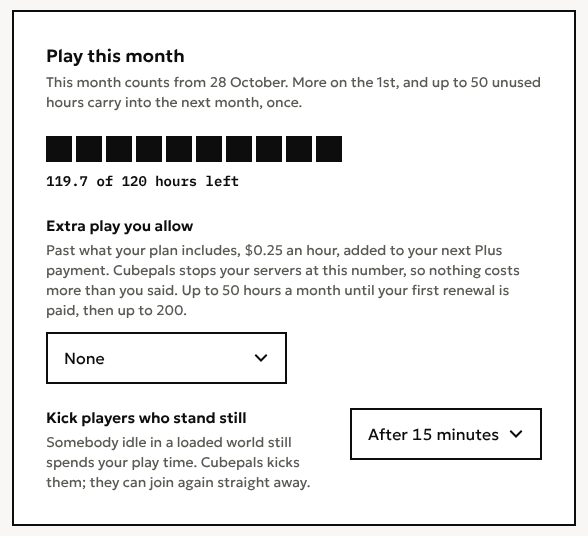
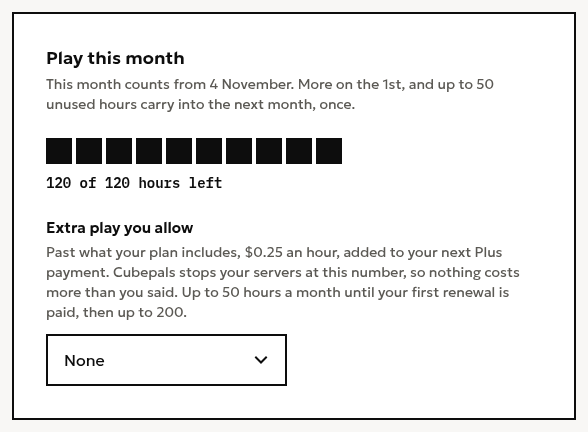
Refresh the guide for server idle-kick settings

diff --git a/apps/control/src/app/servers/afk-kick.test.ts b/apps/control/src/app/servers/afk-kick.test.ts
@@ -30,7 +30,7 @@ describe.skipIf(!hasDatabase)('server idle-kick choices', () => {
     const runtime = async (id: string) => h.app.specs.desired(h.db, await h.server(id))
     const before = await runtime(first.id)
     const version = (await h.server(first.id)).version
-    await h.app.afkKick.set(owner, first.id, 0)
+    await h.app.servers.afkKick.set(owner, first.id, 0)
     expect((await h.app.queries.get(owner, first.id)).afkKickMinutes).toBe(0)
     expect((await h.app.queries.get(owner, second.id)).afkKickMinutes).toBeNull()
     expect(h.runtime.machine(first.id)?.spec.env.PLAYER_IDLE_TIMEOUT).toBe('15')
@@ -40,19 +40,17 @@ describe.skipIf(!hasDatabase)('server idle-kick choices', () => {
     expect((await runtime(first.id)).driftDigest).toBe(before.driftDigest)
     expect((await runtime(first.id)).digest).not.toBe(before.digest)
     expect((await h.server(first.id)).version).toBe(version + 1)
-    await h.app.afkKick.set(owner, first.id, 0)
+    await h.app.servers.afkKick.set(owner, first.id, 0)
     expect((await h.server(first.id)).version).toBe(version + 1)
     const audit = await h.db
       .select()
       .from(schema.auditLog)
-      .where(
-        and(eq(schema.auditLog.subjectId, first.id), eq(schema.auditLog.action, 'server.afk_kick_set')),
-      )
+      .where(and(eq(schema.auditLog.subjectId, first.id), eq(schema.auditLog.action, 'server.afk_kick_set')))
     expect(audit).toHaveLength(1)
     expect(audit[0]).toMatchObject({ subjectType: 'server', data: { minutes: 0 } })
-    await h.app.afkKick.set(owner, first.id, 45)
+    await h.app.servers.afkKick.set(owner, first.id, 45)
     expect((await runtime(first.id)).spec.env.PLAYER_IDLE_TIMEOUT).toBe('45')
-    await h.app.afkKick.set(owner, first.id, null)
+    await h.app.servers.afkKick.set(owner, first.id, null)
     expect((await h.server(first.id)).afkKickMinutes).toBeNull()
     expect((await runtime(first.id)).spec.env.PLAYER_IDLE_TIMEOUT).toBe('15')
   }, 40_000)
@@ -61,34 +59,40 @@ describe.skipIf(!hasDatabase)('server idle-kick choices', () => {
     const owner = await h.user('Private idle', 'plus')
     const stranger = await h.user('Stranger idle', 'plus')
     const server = await h.create(owner, { name: 'Private idle' })
-    await expect(h.app.afkKick.set(stranger, server.id, 0)).rejects.toMatchObject({ name: 'NotFound' })
+    await expect(h.app.servers.afkKick.set(stranger, server.id, 0)).rejects.toMatchObject({
+      name: 'NotFound',
+    })
     await expect(
-      h.app.afkKick.set({ kind: 'system', reason: 'reconcile' }, server.id, 0),
+      h.app.servers.afkKick.set({ kind: 'system', reason: 'reconcile' }, server.id, 0),
     ).rejects.toMatchObject({ name: 'NotFound' })
     for (const minutes of [-1, 3, 121, 5.5, Number.NaN])
-      await expect(h.app.afkKick.set(owner, server.id, minutes)).rejects.toMatchObject({
+      await expect(h.app.servers.afkKick.set(owner, server.id, minutes)).rejects.toMatchObject({
         code: 'invalid_choice',
       })
     expect((await h.server(server.id)).afkKickMinutes).toBeNull()
     const free = await h.user('Free idle')
     const trial = await h.create(free, { name: 'Free idle' })
-    await expect(h.app.afkKick.set(free, trial.id, 0)).rejects.toMatchObject({ code: 'not_entitled' })
+    await expect(h.app.servers.afkKick.set(free, trial.id, 0)).rejects.toMatchObject({ code: 'not_entitled' })
     expect((await h.server(trial.id)).afkKickMinutes).toBeNull()
   }, 30_000)
 
   test('after a downgrade the owner can reset an earlier choice without choosing a new override', async () => {
     const owner = await h.user('Downgraded idle', 'plus')
     const server = await h.create(owner, { name: 'Downgraded idle' })
-    await h.app.afkKick.set(owner, server.id, 0)
+    await h.app.servers.afkKick.set(owner, server.id, 0)
     await h.db
       .update(schema.accountStanding)
       .set({ plan: 'free' })
       .where(eq(schema.accountStanding.userId, owner.userId))
-    await expect(h.app.afkKick.set(owner, server.id, 30)).rejects.toMatchObject({ code: 'not_entitled' })
+    await expect(h.app.servers.afkKick.set(owner, server.id, 30)).rejects.toMatchObject({
+      code: 'not_entitled',
+    })
     expect((await h.server(server.id)).afkKickMinutes).toBe(0)
-    await h.app.afkKick.set(owner, server.id, null)
+    await h.app.servers.afkKick.set(owner, server.id, null)
     expect((await h.server(server.id)).afkKickMinutes).toBeNull()
-    expect((await h.app.specs.desired(h.db, await h.server(server.id))).spec.env.PLAYER_IDLE_TIMEOUT).toBe('15')
+    expect((await h.app.specs.desired(h.db, await h.server(server.id))).spec.env.PLAYER_IDLE_TIMEOUT).toBe(
+      '15',
+    )
   }, 30_000)
 
   test('a paid subscription allows the choice even when the stored account plan is free', async () => {
@@ -102,7 +106,7 @@ describe.skipIf(!hasDatabase)('server idle-kick choices', () => {
       status: PAYING[0] ?? '',
     })
     const server = await h.create(owner, { name: 'Paid idle' })
-    await h.app.afkKick.set(owner, server.id, 30)
+    await h.app.servers.afkKick.set(owner, server.id, 30)
     expect((await h.server(server.id)).afkKickMinutes).toBe(30)
   }, 30_000)
 

diff --git a/apps/control/src/app/servers/queries.ts b/apps/control/src/app/servers/queries.ts
@@ -83,6 +83,7 @@ import {
 import { partySizesFor, planFit, usableFirst } from './plan-fit.ts'
 import { loadChangeFacts, loadRevisionCard, loadRevisionFields, revisionHistory } from './revision-reads.ts'
 import type { MinecraftServerService } from './service.ts'
+import { serverSettingsView } from './settings-view.ts'
 import { lastsOnceRestored } from './temporary.ts'
 import { knownPlayers, lastActivity, openIntervalStart, openRun, presenceFor } from './usage.ts'
 import { waitingChanges } from './waiting.ts'
@@ -661,8 +662,7 @@ export class ServerQueries {
         : null,
       createdAt: server.createdAt.toISOString(),
       version: server.version,
-      settings: revision.settings,
-      afkKickMinutes: server.afkKickMinutes,
+      ...serverSettingsView(server, revision),
       partySize: partySizeOf(server.memoryTier),
       sessionEndsAt:
         sessionStart === null || plan.maxSessionMinutes === null

diff --git a/apps/control/src/app/revisions/plan-caps.test.ts b/apps/control/src/app/revisions/plan-caps.test.ts
@@ -167,13 +167,13 @@ describe.skipIf(!hasDatabase)('plan limits on configurations', () => {
     await h.settled(id)
     expect(h.runtime.machine(id)?.spec.env.PLAYER_IDLE_TIMEOUT).toBe('15')
     // Never is the costliest choice, made by the owner; the server takes it at its next start.
-    await h.app.afkKick.set(owner, id, 0)
+    await h.app.servers.afkKick.set(owner, id, 0)
     await h.app.servers.restart(owner, id, randomUUID())
     await h.until(id, (s) => s.lifecycle.status === 'running')
     await h.settled(id)
     expect(h.runtime.machine(id)?.spec.env.PLAYER_IDLE_TIMEOUT).toBe('0')
     // Anything else is a real kick.
-    const refused = await h.app.afkKick.set(owner, id, 3).then(
+    const refused = await h.app.servers.afkKick.set(owner, id, 3).then(
       () => null,
       (error: { code?: string }) => error.code,
     )

diff --git a/apps/web/src/app/(public)/guides/minecraft-server-cost/page.tsx b/apps/web/src/app/(public)/guides/minecraft-server-cost/page.tsx
@@ -101,8 +101,8 @@ export default async function Guide() {
         <Shot
           src={`${PICTURES}/play-this-month.png`}
           width={588}
-          height={536}
-          alt="The Play this month card on the Account page of a paid plan: the hours left this month as a bar, then Extra play you allow, set to None, which says what an hour past the plan costs and that Cubepals stops your servers at the number you set, then Kick players who stand still, after 15 minutes."
+          height={432}
+          alt="The Play this month card on the Account page of a paid plan: the hours left this month as a bar, then Extra play you allow, set to None, which says what an hour past the plan costs and that Cubepals stops your servers at the number you set."
           caption="Extra play is off until you set a limit."
         />
       </Part>

diff --git a/apps/control/src/app/servers/settings-view.ts b/apps/control/src/app/servers/settings-view.ts
@@ -1,0 +1,15 @@
+// SPDX-FileCopyrightText: 2026 The Cubepals Authors
+//
+// SPDX-License-Identifier: AGPL-3.0-only
+
+/** The Settings page combines the revision's game settings with this server's own idle-kick choice. */
+import type { ServerView } from '@blockly/contracts'
+import type { ServerRevision } from '../../domain/revision/revision.ts'
+import type { MinecraftServer } from '../../domain/server/server.ts'
+
+export function serverSettingsView(
+  server: MinecraftServer,
+  revision: Pick<ServerRevision, 'settings'>,
+): Pick<ServerView, 'settings' | 'afkKickMinutes'> {
+  return { settings: revision.settings, afkKickMinutes: server.afkKickMinutes }
+}

diff --git a/apps/control/src/interfaces/trpc/router.ts b/apps/control/src/interfaces/trpc/router.ts
@@ -100,7 +100,7 @@ import { authedProcedure, ownerOrAdminProcedure, publicProcedure, router, sessio
 
 const servers = router({
   setAfkKick: authedProcedure.input(SetAfkKickInput).mutation(async ({ ctx, input }) => {
-    await ctx.services.afkKick.set(ctx.actor, input.serverId, input.minutes)
+    await ctx.services.servers.afkKick.set(ctx.actor, input.serverId, input.minutes)
     return ctx.services.queries.get(ctx.actor, input.serverId)
   }),
   list: authedProcedure.query(({ ctx }) => ctx.services.queries.list(ctx.actor)),

diff --git a/apps/web/src/app/(app)/account/page.tsx b/apps/web/src/app/(app)/account/page.tsx
@@ -15,7 +15,7 @@ import {
 import { useMutation, useQuery, useQueryClient } from '@tanstack/react-query'
 import Link from 'next/link'
 import { useRouter, useSearchParams } from 'next/navigation'
-import { type ReactNode, Suspense, useEffect, useRef, useState } from 'react'
+import { type ReactNode, Suspense, useEffect, useRef } from 'react'
 import { messageOf, useTRPC } from '../../../lib/api'
 import { checkoutHref } from '../../../lib/checkout'
 import { useOutcome } from '../../../lib/outcome'

diff --git a/apps/control/src/interfaces/trpc/trpc.ts b/apps/control/src/interfaces/trpc/trpc.ts
@@ -55,8 +55,7 @@ import type { WorldService } from '../../app/worlds/service.ts'
 
 /** What procedures may call. Each procedure calls exactly one of these methods. */
 export interface Services {
-  servers: MinecraftServerService
-  afkKick: AfkKick
+  servers: MinecraftServerService & { afkKick: AfkKick }
   /** A new address goes through here, so its owner hears when someone else gave it. */
   notices: OwnerNotices
   accounts: AccountService

diff --git a/apps/control/src/app/accounts/service.ts b/apps/control/src/app/accounts/service.ts
@@ -33,7 +33,6 @@ import { listOwned, listUnpurged } from '../servers/persistence.ts'
 import { desiredRuns } from '../servers/revision-reads.ts'
 import type { MinecraftServerService } from '../servers/service.ts'
 import { openIntervalStart } from '../servers/usage.ts'
-import { tuning } from '../tuning.ts'
 import { renewedCeiling, warnAboutExtra } from './extra-play.ts'
 import { FreePlayGuard } from './free-play-guard.ts'
 import {

diff --git a/apps/web/src/app/(app)/servers/[id]/settings/idle-players.tsx b/apps/web/src/app/(app)/servers/[id]/settings/idle-players.tsx
@@ -70,7 +70,9 @@ function IdleKick({ view, plan }: { view: ServerView; plan: EntitlementsView }) 
                 After {n} minutes
               </option>
             ))}
-            <option value={0} disabled={!plan.mayChooseAfkKick}>Never</option>
+            <option value={0} disabled={!plan.mayChooseAfkKick}>
+              Never
+            </option>
           </select>
         }
       />

diff --git a/apps/control/src/app/control-plane.ts b/apps/control/src/app/control-plane.ts
@@ -338,10 +338,9 @@ export function composeControlPlane(ports: ControlPlanePorts, settings: ControlP
     policy,
     transitions,
     specs,
-    servers,
+    servers: Object.assign(servers, { afkKick: new AfkKick(db, events) }),
     notices,
     accounts,
-    afkKick: new AfkKick(db, events),
     accountQueries: new AccountQueries({ db, policy }),
     billing,
     listings,

diff --git a/apps/control/src/main.node.ts b/apps/control/src/main.node.ts
@@ -411,7 +411,6 @@ function apiServices(
     servers: app.servers,
     notices: app.notices,
     accounts: app.accounts,
-    afkKick: app.afkKick,
     accountQueries: app.accountQueries,
     impersonation: new Impersonation({ db }),
     billing: app.billing,
